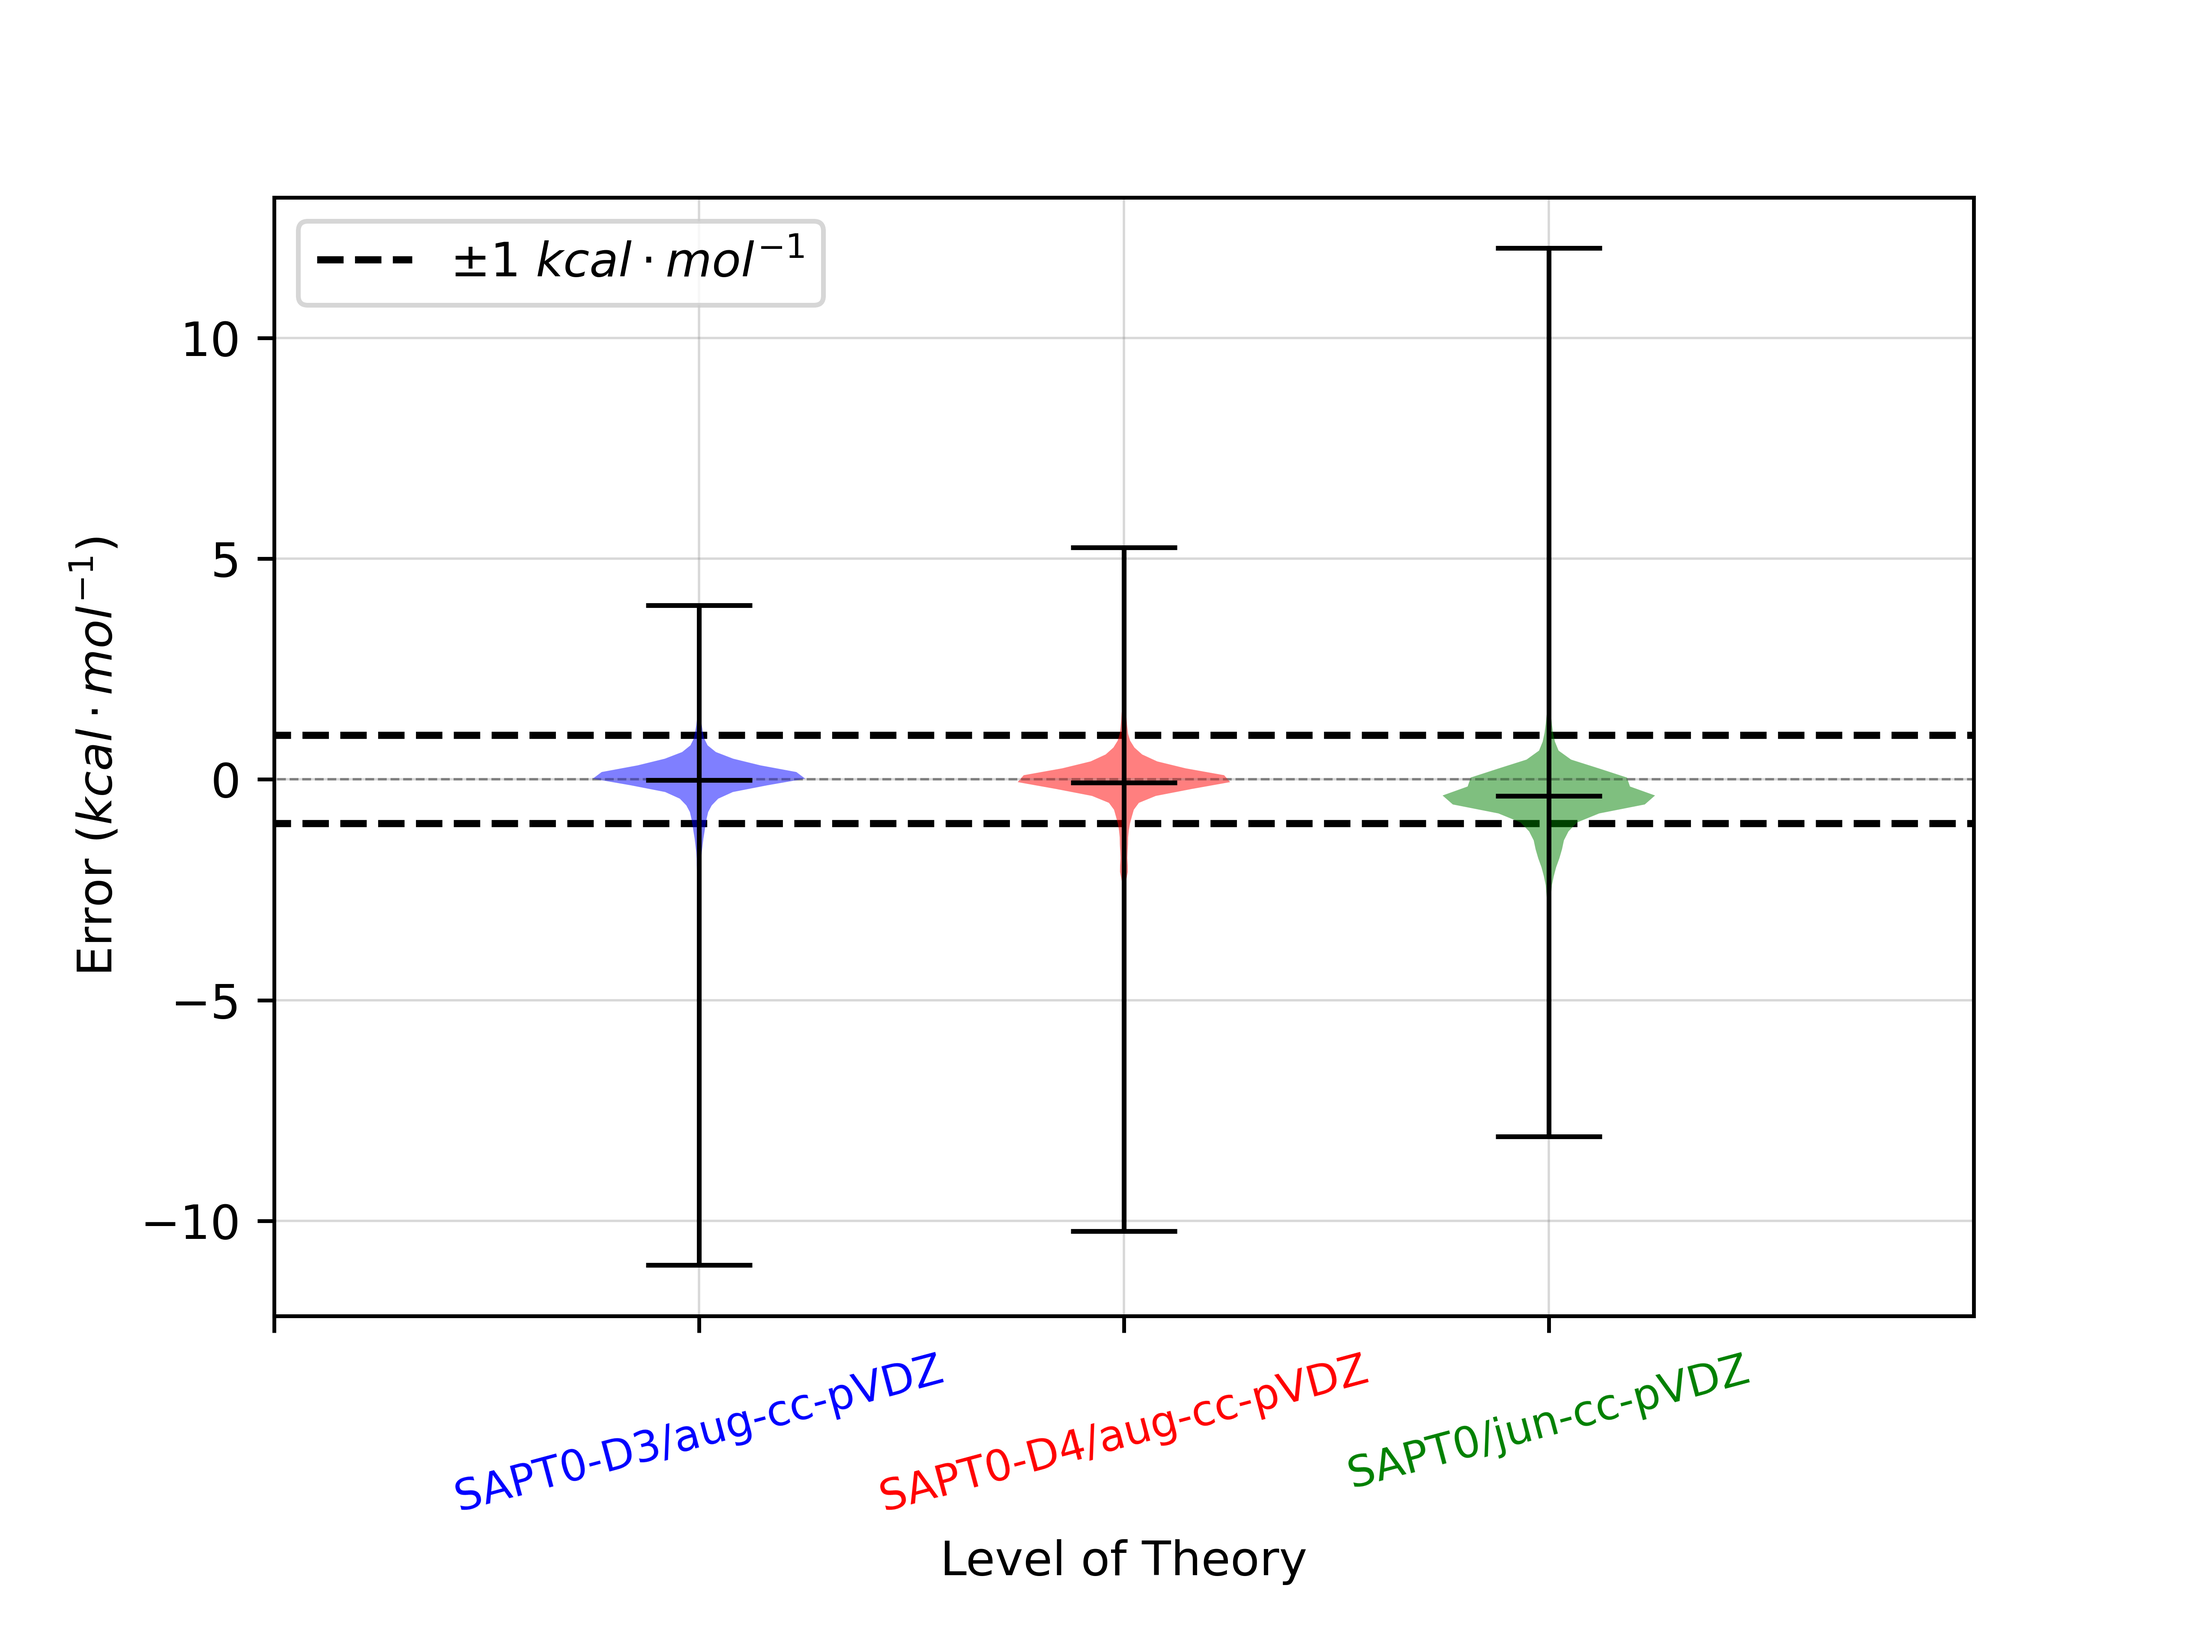
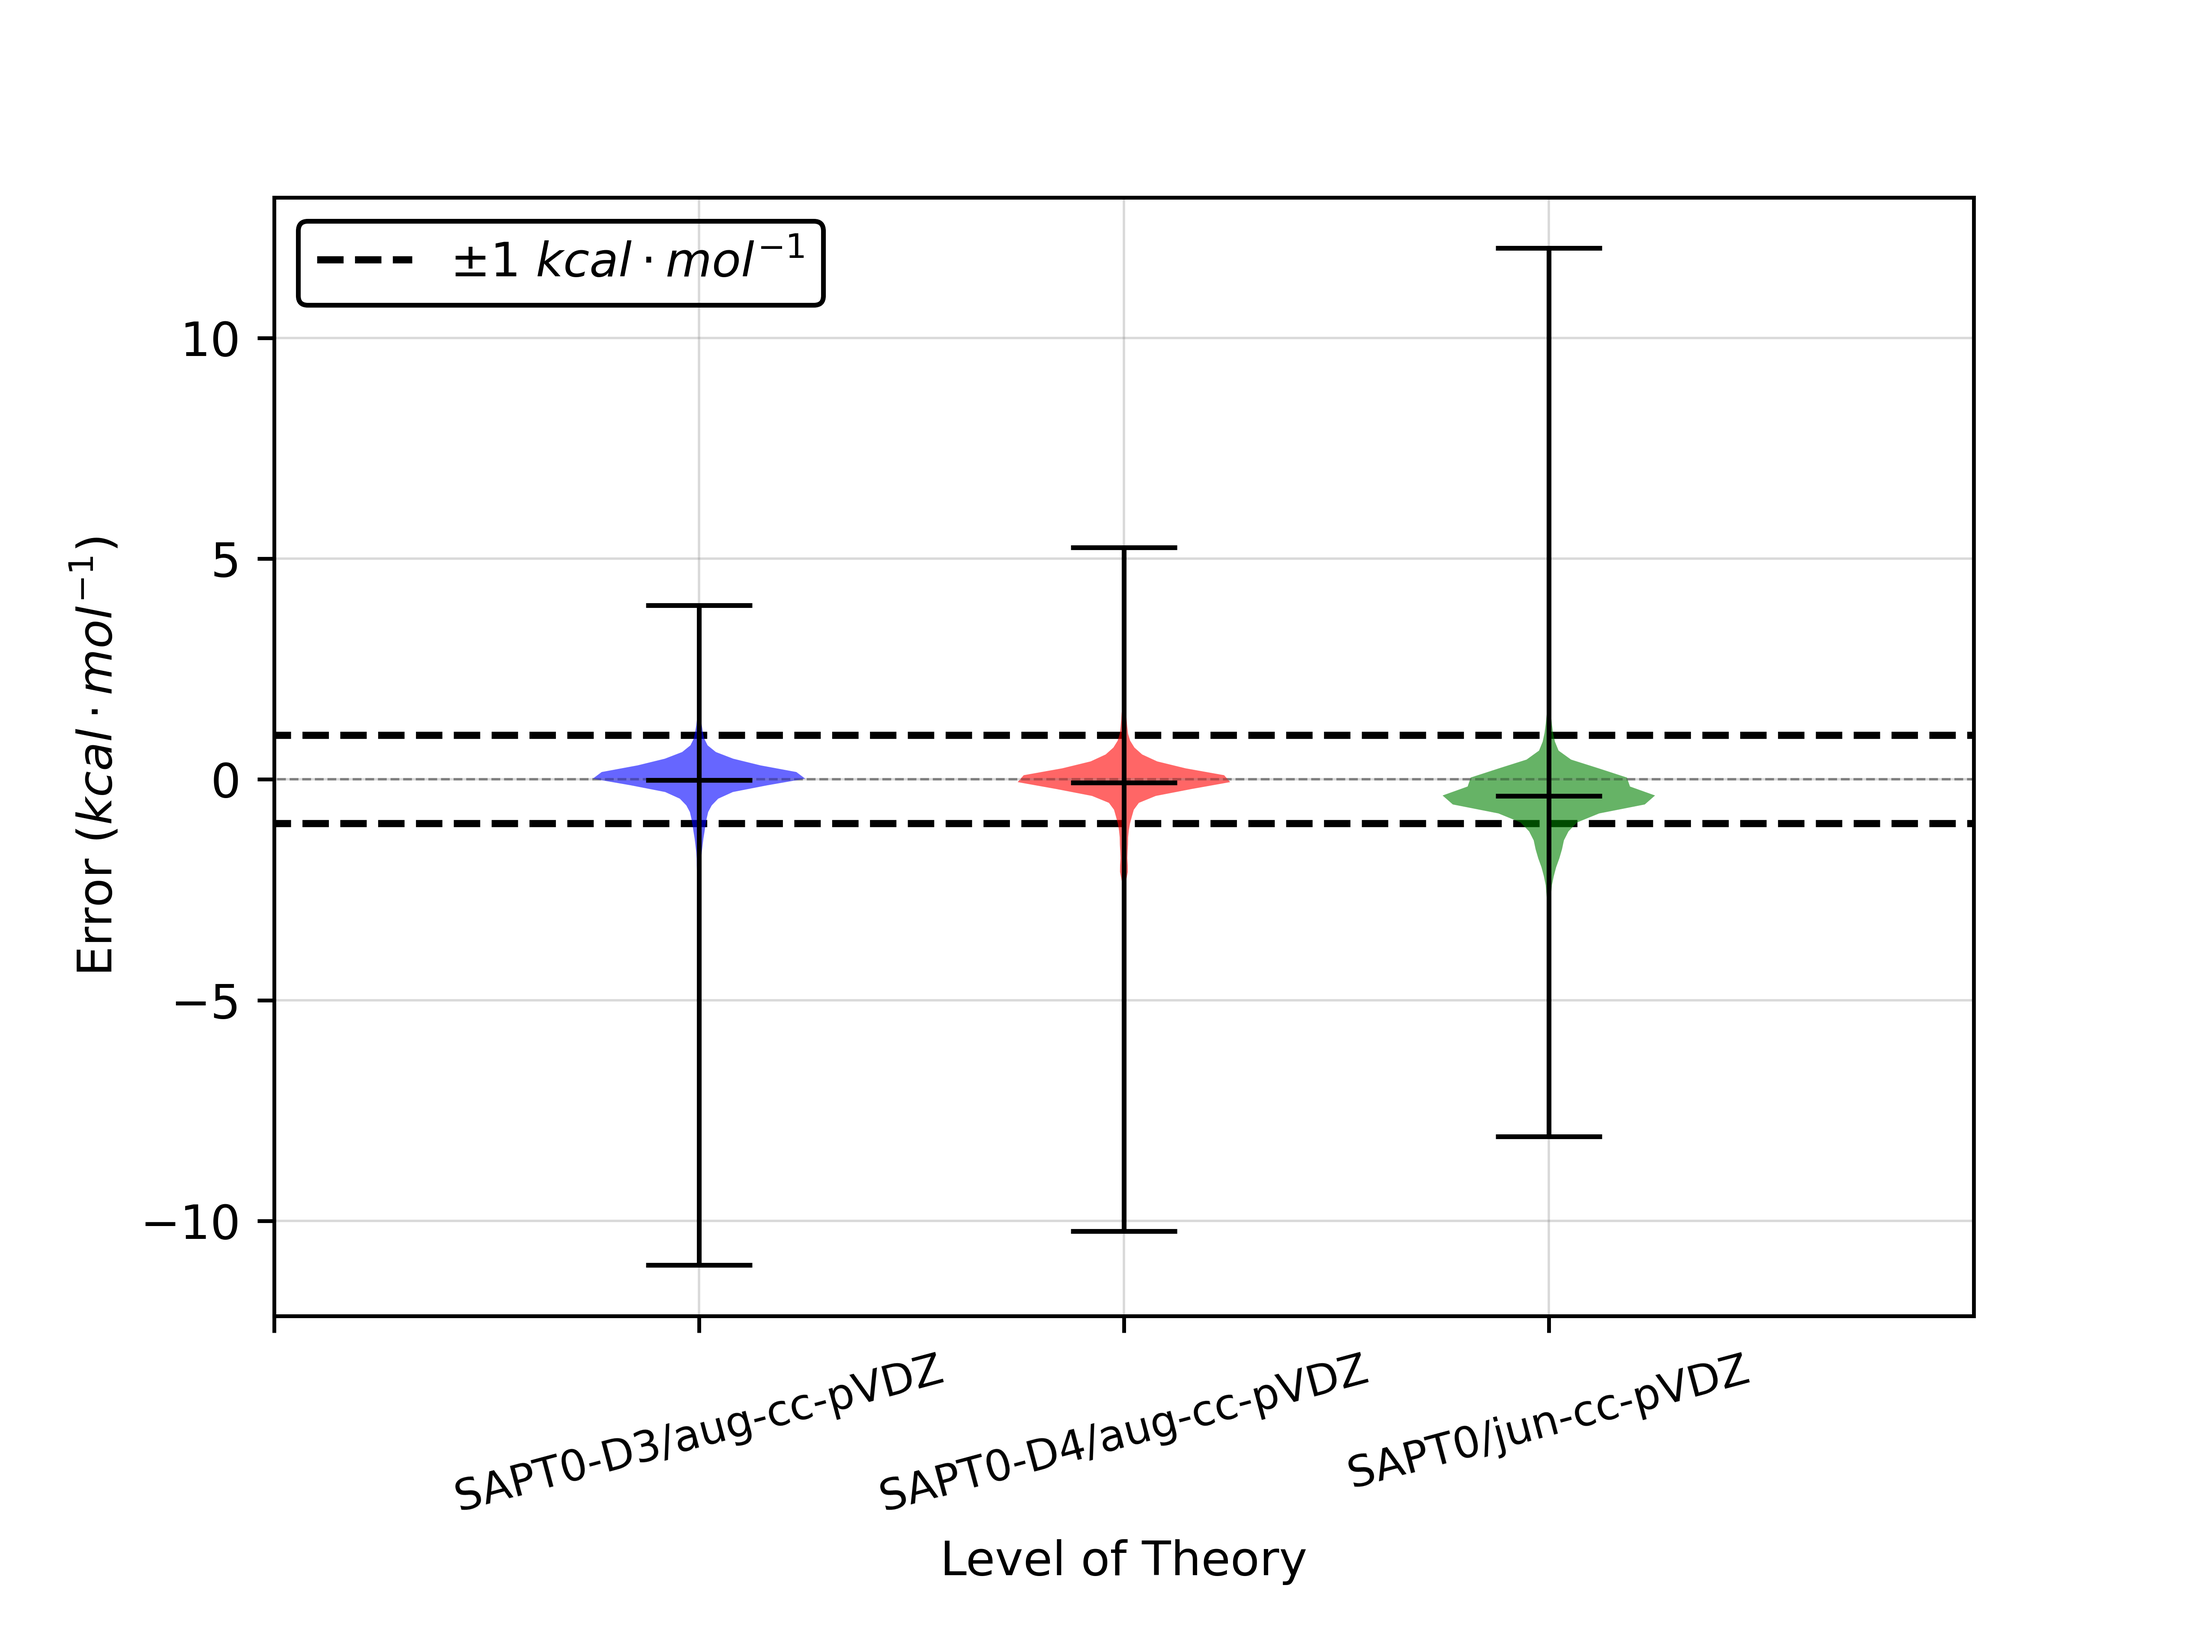
poster final plots SETCA

diff --git a/src/plotting.py b/src/plotting.py
@@ -95,7 +95,15 @@ def plot_dbs(df, df_col, title_name, pfn, color="blue") -> None:
     plt.clf()
     return
 
-def plot_dbs_d3_d4_two(df, c1, c2, l1, l2, title_name, pfn, first=True) -> None:
+
+def plot_dbs_d3_d4_two(df,
+                       c1,
+                       c2,
+                       l1,
+                       l2,
+                       title_name,
+                       pfn,
+                       first=True) -> None:
     """
     """
     kcal_per_mol = "$kcal\cdot mol^{-1}$"
@@ -104,9 +112,9 @@ def plot_dbs_d3_d4_two(df, c1, c2, l1, l2, title_name, pfn, first=True) -> None:
     vLabels, vData = [], []
     if first:
         # dbs = [dbs[i] for i in range(len(dbs)//2)]
-        dbs = dbs[:len(dbs)//2]
+        dbs = dbs[:len(dbs) // 2]
     else:
-        dbs = dbs[len(dbs)//2:]
+        dbs = dbs[len(dbs) // 2:]
     print(dbs)
 
     for d in dbs:
@@ -163,7 +171,7 @@ def plot_dbs_d3_d4_two(df, c1, c2, l1, l2, title_name, pfn, first=True) -> None:
     ax.set_xticks(xs)
     plt.setp(ax.set_xticklabels(vLabels), rotation=50, fontsize="7")
     ax.set_xlim((0, len(vLabels)))
-    ax.set_ylim((-12,6))
+    ax.set_ylim((-12, 6))
     ax.legend(loc="upper left")
     ax.set_xlabel("Database")
     ax.set_ylabel(r"Error ($kcal\cdot mol^{-1}$)")
@@ -182,6 +190,7 @@ def plot_dbs_d3_d4_two(df, c1, c2, l1, l2, title_name, pfn, first=True) -> None:
     plt.savefig(f"plots/{pfn}_dbs_violin.png")
     plt.clf()
     return
+
 
 def plot_dbs_d3_d4(df, c1, c2, l1, l2, title_name, pfn) -> None:
     """
@@ -363,6 +372,7 @@ def plot_violin_d3_d4_total(
         vData.append(df[c1s[i]].to_list())
         vLabels.append(f"{l1s[i]}")
 
+    # transparent figure
     fig = plt.figure(dpi=800)
     ax = plt.subplot(111)
     vplot = ax.violinplot(vData, showmeans=True, showmedians=False)
@@ -379,8 +389,8 @@ def plot_violin_d3_d4_total(
         #     pc.set_facecolor("blue")
         # else:
         #     pc.set_facecolor("red")
-        pc.set_facecolor(colors[n-1])
-        pc.set_alpha(0.5)
+        pc.set_facecolor(colors[n - 1])
+        pc.set_alpha(0.6)
         # pc.set_edgecolor("black")
 
     vLabels.insert(0, "")
@@ -409,14 +419,19 @@ def plot_violin_d3_d4_total(
         # label="+-1 kcal/mol",
         zorder=0,
     )
+    navy_blue = (0.0, 0.32, 0.96)
     ax.set_xticks(xs)
     plt.setp(ax.set_xticklabels(vLabels), rotation=15, fontsize="9")
     ax.set_xlim((0, len(vLabels)))
-    ax.legend(loc="upper left")
+    lg = ax.legend(loc="upper left", edgecolor='black')
+    lg.get_frame().set_alpha(None)
+    lg.get_frame().set_facecolor((1, 1, 1, 0.0))
+
+
     # set yaxis as log
     # ax.set_yscale("log")
-    ax.set_xlabel("Level of Theory")
-    ax.set_ylabel(r"Error ($kcal\cdot mol^{-1}$)")
+    ax.set_xlabel("Level of Theory", color='k')
+    ax.set_ylabel(r"Error ($kcal\cdot mol^{-1}$)", color='k')
     # ax.set_ylabel(r"Error ($\frac{kcal}{mol}$)")
     ax.grid(color='gray', which="major", linewidth=0.5, alpha=0.3)
     ax.grid(color='gray', which="minor", linewidth=0.5, alpha=0.3)
@@ -426,14 +441,17 @@ def plot_violin_d3_d4_total(
         #     xtick.set_color("blue")
         # else:
         #     xtick.set_color("red")
-        xtick.set_color(colors[n-1])
+        # xtick.set_color(colors[n - 1])
+        # navy blue
+        xtick.set_color('k')
 
     plt.title(f"{title_name}")
     fig.subplots_adjust(bottom=0.2)
     # plt.show()
-    plt.savefig(f"plots/{pfn}_dbs_violin.png")
+    plt.savefig(f"plots/{pfn}_dbs_violin.png", transparent=True)
     plt.clf()
     return
+
 
 def plot_dbs_d3_d4(df, df2, c1s, c2s, l1s, l2s, title_name, pfn) -> None:
     """
@@ -459,13 +477,12 @@ def plot_dbs_d3_d4(df, df2, c1s, c2s, l1s, l2s, title_name, pfn) -> None:
         vp.set_alpha(1)
 
     for n, pc in enumerate(vplot["bodies"], 1):
-        if n%2 != 0:
+        if n % 2 != 0:
             pc.set_facecolor("blue")
         else:
             pc.set_facecolor("red")
         pc.set_alpha(0.5)
         # pc.set_edgecolor("black")
-
 
     vLabels.insert(0, "")
     xs = [i for i in range(len(vLabels))]
@@ -501,7 +518,7 @@ def plot_dbs_d3_d4(df, df2, c1s, c2s, l1s, l2s, title_name, pfn) -> None:
     ax.set_ylabel("Error (kcal/mol)")
     for n, xtick in enumerate(ax.get_xticklabels()):
 
-        if n%2 != 0:
+        if n % 2 != 0:
             xtick.set_color("blue")
         else:
             xtick.set_color("red")

diff --git a/main.py b/main.py
@@ -207,34 +207,34 @@ def plots(df) -> None:
     #     "",
     #     "adz_d3_d4_total",
     # )
-    src.plotting.plot_dbs_d3_d4(
-        df,
-        "adz_diff_d3",
-        "adz_diff_d4",
-        "D3",
-        "D4",
-        "SAPT0-D/aug-cc-pVDZ Compared With CCSD(T)/CBS",
-        "adz_diff_d3_d4",
-    )
-    src.plotting.plot_dbs_d3_d4_two(
-        df,
-        "adz_diff_d3",
-        "adz_diff_d4",
-        "D3",
-        "D4",
-        "1: SAPT0-D/aug-cc-pVDZ Compared With CCSD(T)/CBS",
-        "adz_diff_d3_d4_first",
-    )
-    src.plotting.plot_dbs_d3_d4_two(
-        df,
-        "adz_diff_d3",
-        "adz_diff_d4",
-        "D3",
-        "D4",
-        "2: SAPT0-D/aug-cc-pVDZ Compared With CCSD(T)/CBS",
-        "adz_diff_d3_d4_second",
-        False,
-    )
+    # src.plotting.plot_dbs_d3_d4(
+    #     df,
+    #     "adz_diff_d3",
+    #     "adz_diff_d4",
+    #     "D3",
+    #     "D4",
+    #     "SAPT0-D/aug-cc-pVDZ Compared With CCSD(T)/CBS",
+    #     "adz_diff_d3_d4",
+    # )
+    # src.plotting.plot_dbs_d3_d4_two(
+    #     df,
+    #     "adz_diff_d3",
+    #     "adz_diff_d4",
+    #     "D3",
+    #     "D4",
+    #     "1: SAPT0-D/aug-cc-pVDZ Compared With CCSD(T)/CBS",
+    #     "adz_diff_d3_d4_first",
+    # )
+    # src.plotting.plot_dbs_d3_d4_two(
+    #     df,
+    #     "adz_diff_d3",
+    #     "adz_diff_d4",
+    #     "D3",
+    #     "D4",
+    #     "2: SAPT0-D/aug-cc-pVDZ Compared With CCSD(T)/CBS",
+    #     "adz_diff_d3_d4_second",
+    #     False,
+    # )
     return
 
 
